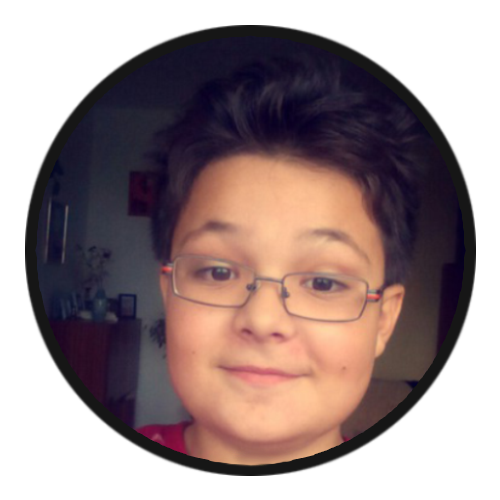
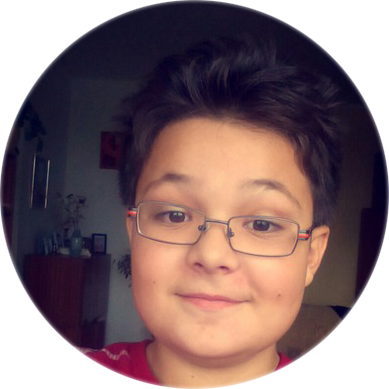
Initial Commit

diff --git a/index.html b/index.html
@@ -4,7 +4,7 @@
 <head>
 	<link rel="stylesheet" href="style/style.css" />
 	<title>Erikove Videá</title>
-	<link rel="icon" href="photo/ErikIcon.png">
+	<link rel="icon" href="photo/ErikIconBig.png">
 	<style>
 		body{
 			background-image: url("photo/webwhite.png");
@@ -16,18 +16,17 @@
 </head>
 <body>
 	<form action="https://www.youtube.com/channel/UCMkm4rd1jiq9R7F5uRmu_ug">
-			<input class="ErikIcon" type="image" src="photo/ErikIconBig.png" alt="avatar" width="70" height="70">
+			<input class="ErikIcon" type="image" src="photo/ErikIconBig.png" alt="avatar" width="90" height="90">
 		</form><br/>
 	<p align="center">
 		<b><font style="font-family:'Helvetica'" align size="50"> Erikove Videá</font></b>
+	</p><br/><br/>
 	</p>
-	<br/>
-	</p>
-	<p align="center"
-	<b><font style="font-family:'Verdana'" align size="5">Moje nové intro</font></b>
+	<p class="vid1" align="center">
+		<font size="5" style="font-family: 'Verdana'">Moje nové intro</font>
 	</p>
 	<p align="center">
-	<video width="450" controls>
+	<video class="video" width="450" poster="photo/thumb/video2.png" controls>
 		<source src="video2.mp4" type="video/mp4">
 	</video>
 	</p>
@@ -36,7 +35,7 @@
 	<font style="font-family:'Verdana'" align size="5"> Get hyper</font>
 	</p>
 	<p align="center">
-	<video width="450" controls>
+	<video class="video" width="450" poster="photo/thumb/video1.png" controls>
 		<source src="video1.mp4" type="video/mp4">
 	</video>
 	<br/>
@@ -46,7 +45,7 @@
 	<b><font style="font-family:'Verdana'" align size="5">Moje štastie 3</font></b>
 	</p>
 	<p align="center">
-	<video width="450" controls>
+	<video class="video" width="450" controls>
 		<source src="video3.mp4" type="video/mp4">
 	</video>
 	</p>
@@ -55,7 +54,7 @@
 	<b><font style="font-family:'Verdana'" align size="5">Špeciál</font></b>
 	</p>
 	<p align="center">
-	<video width="550" controls>
+	<video class="video" width="550" poster="photo/thumb/video44.png" controls>
 		<source src="video44.mp4" type="video/mp4">
 	</video>
 	</p>
@@ -65,7 +64,7 @@
 	<b><font style="font-family:'Verdana'" align size="5">Školský vlog</font></b>
 	</p>
 	<p align="center">
-	<video width="450" controls>
+	<video class="video" width="450" controls>
 		<source src="video5.mp4" type="video/mp4">
 	</video>
 	</p>
@@ -75,7 +74,7 @@
 	<b><font style="font-family:'Verdana'" align size="5">Video pre heiterov</font></b>
 	</p>
 	<p align="center">
-	<video width="450" controls>
+	<video class="video" width="450" controls>
 		<source src="video6.mp4" type="video/mp4">
 	</video>
 	</p>
@@ -85,7 +84,7 @@
 	<b><font style="font-family:'Verdana'" align size="5">Oznámenie</font></b>
 	</p>
 	<p align="center">
-	<video width="450" controls>
+	<video class="video" width="450" poster="photo/thumb/video7.png" controls>
 		<source src="video7.mp4" type="video/mp4">
 	</video>
 	</p>
@@ -94,7 +93,7 @@
 	<b><font style="font-family:'Verdana'" align size="5">Ospravedlnenie</font></b>
 	</p>
 	<p align="center">
-	<video width="450" controls>
+	<video class="video" width="450" poster="photo/thumb/video8.png" controls>
 		<source src="video8.mp4" type="video/mp4">
 	</video>
 	</p><br/>
@@ -102,7 +101,7 @@
 	<b><font style="font-family:'Verdana'" align size="5">Unboxing novej kolobežky</font></b>
 	</p>
 	<p align="center">
-	<video width="600" controls>
+	<video class="video" width="600" poster="photo/thumb/video9.png" controls>
 		<source src="video9.mp4" type="video/mp4">
 	</video>
 	</p><br/>
@@ -110,8 +109,8 @@
 	<b><font style="font-family:'Verdana'" align size="5">Apple challenge</font></b>
 	</p>
 	<p align="center">
-	<video width="550" controls>
+	<video class="video" width="550" poster="photo/thumb/video10.png" controls>
 		<source src="video10.mp4" type="video/mp4">
 	</video>
-	</p><br/><br/>
+	</p><br/><br/><br/>
 </html>

diff --git a/style/style.css b/style/style.css
@@ -1,8 +1,14 @@
 body{
 }
-.vid1{
-	
-}
+
 .ErikIcon{
 	position: fixed;
+	top: 15px;
+	left: 15px;
+	border: none;
+	outline: none;
+}
+
+.video{
+	border: 10px solid #B7BCCC;
 }
